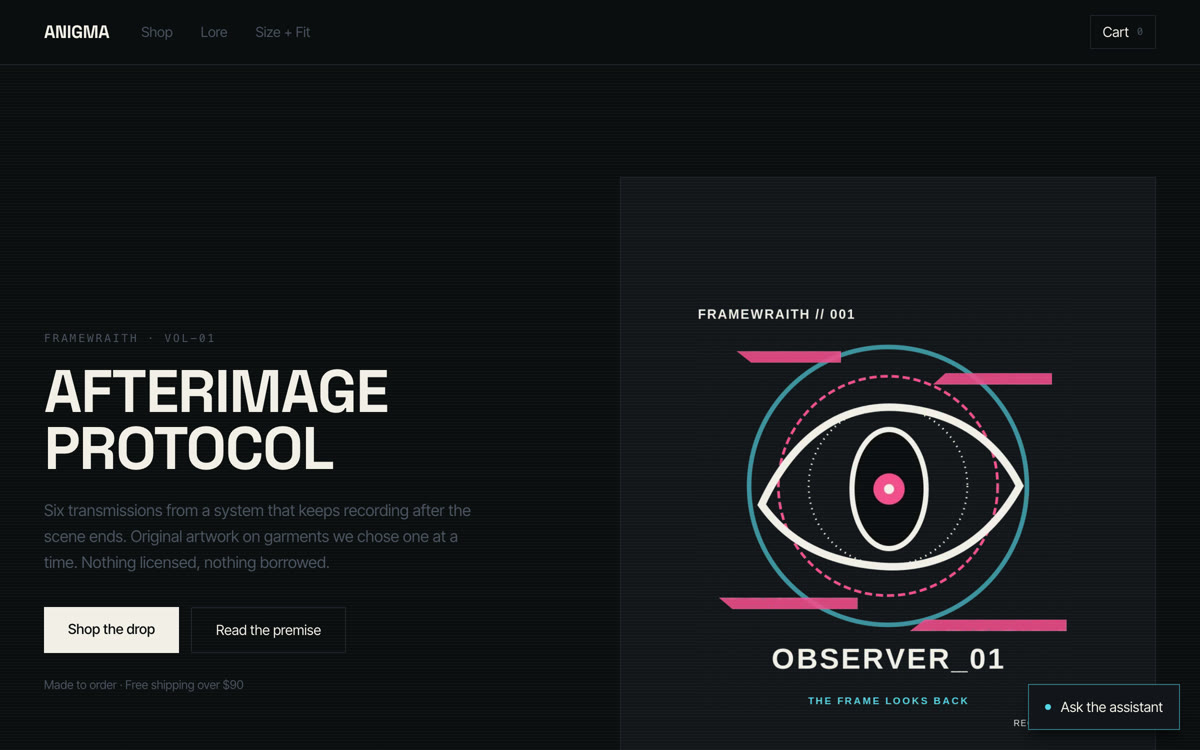
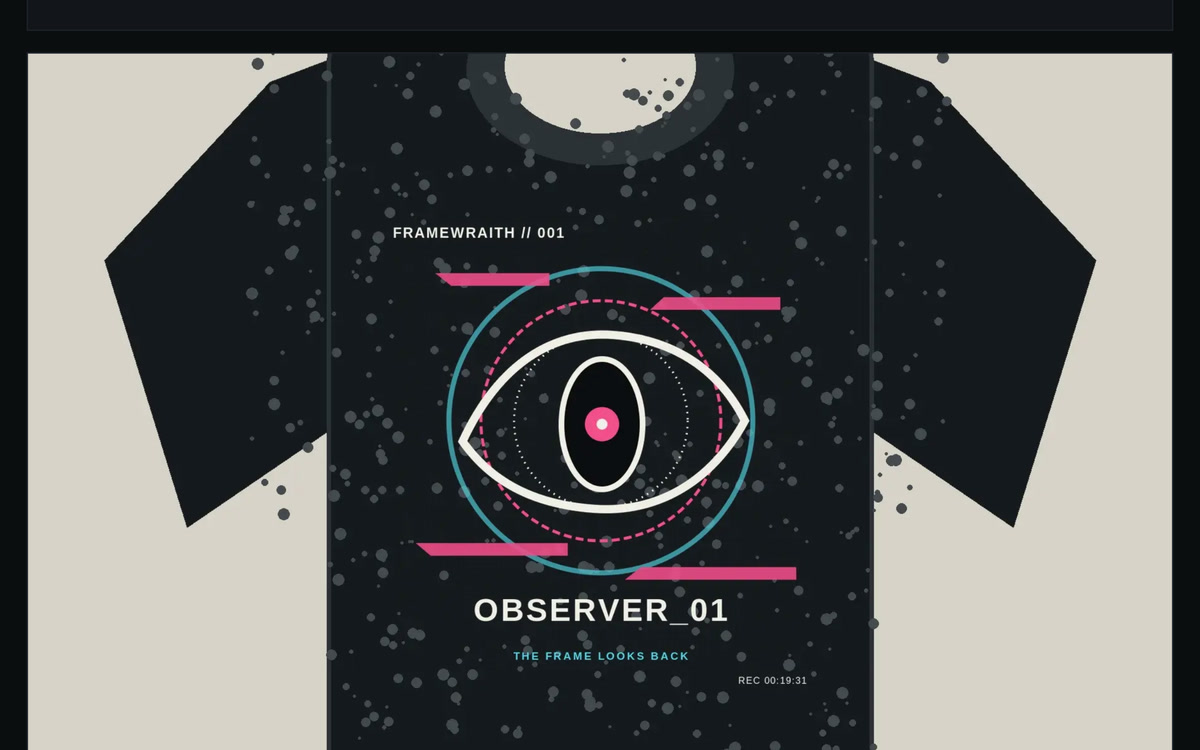
Кадр ANIGMA: вещь вместо голограммы
Сергей про прежний: «голограмма посередине, непонятно чего». Новый снят
Глазами-Ушами и принят Мозгом по замеру читаемости на 64×40: чёрная
футболка с принтом OBSERVER_01, FRAMEWRAITH // 001, «the frame looks back».
Видно, что продаётся вещь.

Один файл — два места: карточка Dharma AI на главной и глава 5 «Пути».
Версия сменилась 828230f1 → c7d10c9b, значит пересборка была.

Баннера «in development, not open for orders» в кадре нет намеренно —
магазин ещё не открыт для заказов, и кадр показывает вещь, а не витрину.

diff --git a/put/comic/index.html b/put/comic/index.html
@@ -113,7 +113,7 @@
             <div class="put-fact"><dt>Решение</dt><dd>Три служебных агента с узкими инструментами; цену пересчитывает сервер, а оплату подтверждает только подписанный вебхук.</dd></div>
             <div class="put-fact"><dt>Нашлось</dt><dd>Часть ранних падений оказалась ошибками самих тестов: верный другой маршрут не должен считаться дефектом агента.</dd></div>
           </dl>
-          <figure class="put-proof"><img src="/assets/shots/anigma.jpg?v=828230f1" alt="" width="1200" height="750" decoding="async" loading="lazy"><figcaption><p class="put-proof-kind">собственная проверка</p><p class="put-proof-label">12 сценариев: 8 покупательских + 4 служебных; текущий прогон 8/8 и 4/4</p></figcaption></figure>
+          <figure class="put-proof"><img src="/assets/shots/anigma.jpg?v=c7d10c9b" alt="" width="1200" height="750" decoding="async" loading="lazy"><figcaption><p class="put-proof-kind">собственная проверка</p><p class="put-proof-label">12 сценариев: 8 покупательских + 4 служебных; текущий прогон 8/8 и 4/4</p></figcaption></figure>
           <p class="put-dharma"><b>Production-процесс Dharma.</b> Точные окна по 100 траекториям; первый релиз требует одобрения организации и не меньше 20 отложенных траекторий, не входивших в исходный набор. Это правило Dharma, а не результат Сергея.</p>
           <details class="put-details"><summary>Как это устроено</summary><p>Факты обеих версий страницы берутся из одного источника. Технические детали спрятаны здесь, чтобы рассказ не становился стеной текста.</p></details>
         </div>

diff --git a/put/index.html b/put/index.html
@@ -113,7 +113,7 @@
             <div class="put-fact"><dt>Решение</dt><dd>Три служебных агента с узкими инструментами; цену пересчитывает сервер, а оплату подтверждает только подписанный вебхук.</dd></div>
             <div class="put-fact"><dt>Нашлось</dt><dd>Часть ранних падений оказалась ошибками самих тестов: верный другой маршрут не должен считаться дефектом агента.</dd></div>
           </dl>
-          <figure class="put-proof"><img src="/assets/shots/anigma.jpg?v=828230f1" alt="" width="1200" height="750" decoding="async" loading="lazy"><figcaption><p class="put-proof-kind">собственная проверка</p><p class="put-proof-label">12 сценариев: 8 покупательских + 4 служебных; текущий прогон 8/8 и 4/4</p></figcaption></figure>
+          <figure class="put-proof"><img src="/assets/shots/anigma.jpg?v=c7d10c9b" alt="" width="1200" height="750" decoding="async" loading="lazy"><figcaption><p class="put-proof-kind">собственная проверка</p><p class="put-proof-label">12 сценариев: 8 покупательских + 4 служебных; текущий прогон 8/8 и 4/4</p></figcaption></figure>
           <p class="put-dharma"><b>Production-процесс Dharma.</b> Точные окна по 100 траекториям; первый релиз требует одобрения организации и не меньше 20 отложенных траекторий, не входивших в исходный набор. Это правило Dharma, а не результат Сергея.</p>
           <details class="put-details"><summary>Как это устроено</summary><p>Факты обеих версий страницы берутся из одного источника. Технические детали спрятаны здесь, чтобы рассказ не становился стеной текста.</p></details>
         </div>

diff --git a/index.html b/index.html
@@ -89,7 +89,7 @@
           </article>
           <a class="work-system work-dharma" href="https://dharma-ai.io" target="_blank" rel="noopener" data-umami-event="project-open" data-umami-event-project="dharma-ai">
             <div class="work-dharma-shot">
-              <img src="/assets/shots/anigma.jpg?v=828230f1" alt="Первый экран магазина ANIGMA: коллекция AFTERIMAGE PROTOCOL и артворк OBSERVER_01" width="1200" height="750" decoding="async">
+              <img src="/assets/shots/anigma.jpg?v=c7d10c9b" alt="Первый экран магазина ANIGMA: коллекция AFTERIMAGE PROTOCOL и артворк OBSERVER_01" width="1200" height="750" decoding="async">
               <span class="dharma-journey" aria-hidden="true"><b>выбор</b><i></i><b>агент</b><i></i><b>заказ</b></span>
             </div>
             <div class="work-dharma-copy">
